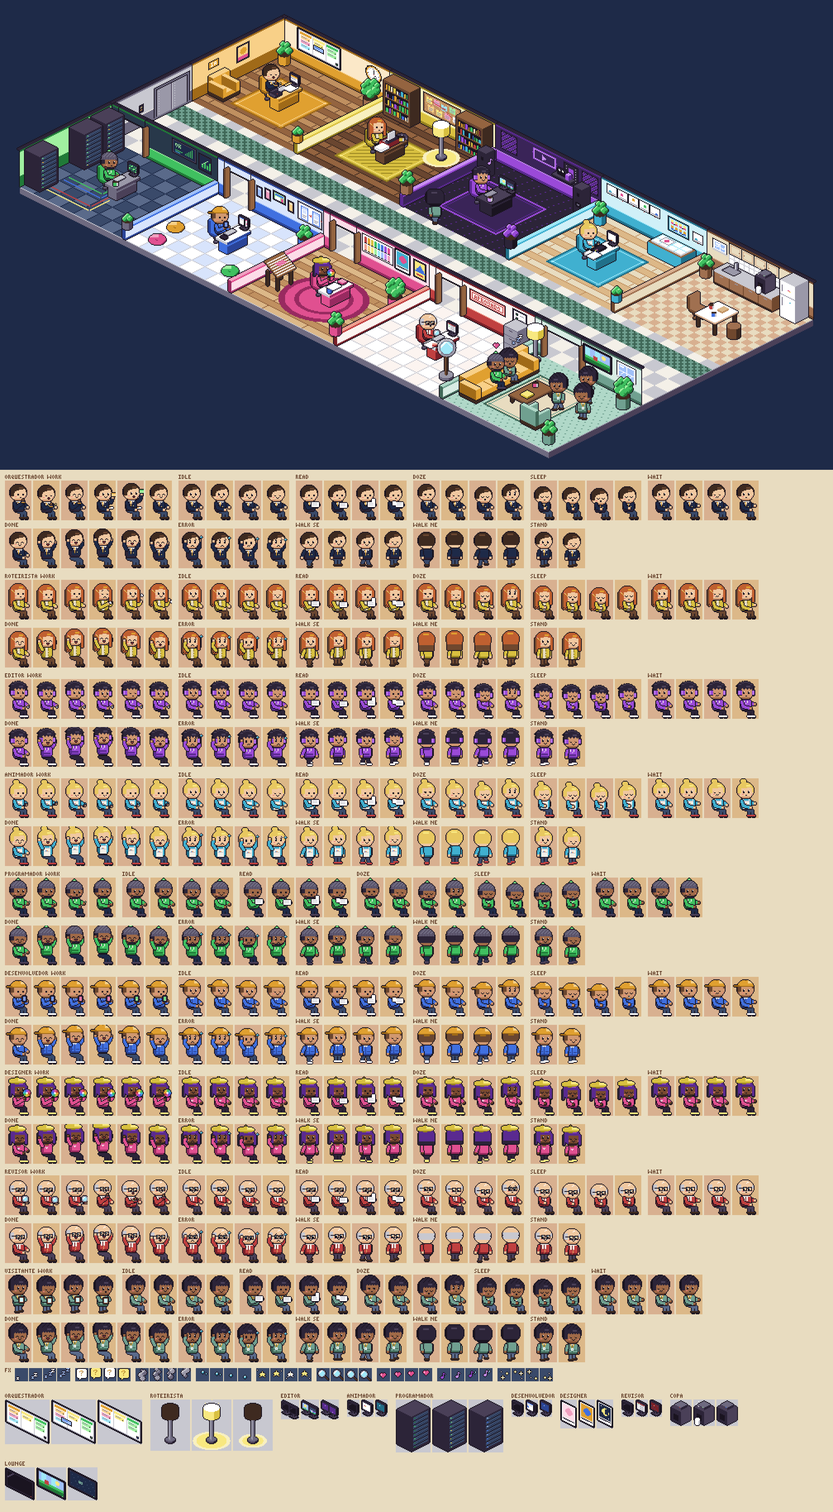
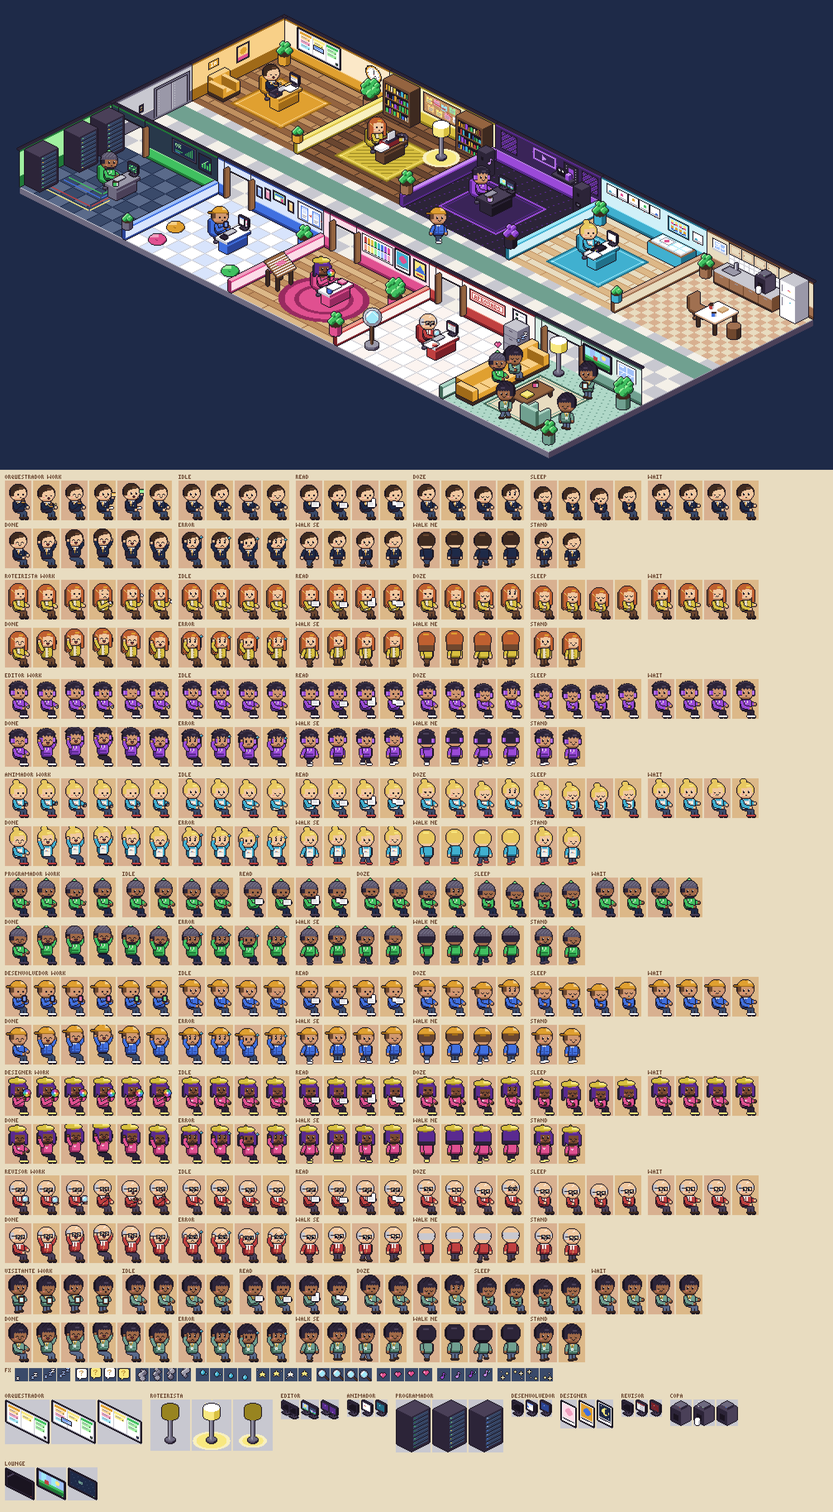
Escritório de IA: arte isométrica v2 completa
Claude-Session: https://claude.ai/code/session_01Whe7f4ccXYv69nz4dyTxmA

diff --git a/escritorio-ia/art/validate.js b/escritorio-ia/art/validate.js
@@ -1,4 +1,5 @@
-// Valida public/assets/ contra o CONTRATO.md (seção 5): manifest, arquivos, tags, quadros/FPS, dimensões e paleta.
+// Valida public/assets/ contra o CONTRATO.md, seção "Versão 2": manifest, arquivos, tags, quadros/FPS,
+// dimensões, paleta, posições dentro do mapa, grafo de caminhos conexo e portas existentes.
 import fs from 'node:fs';
 import path from 'node:path';
 import { fileURLToPath } from 'node:url';
@@ -9,9 +10,9 @@ const ROOT = path.resolve(path.dirname(fileURLToPath(import.meta.url)), '..');
 const DIR = path.join(ROOT, 'public', 'assets');
 const rooms = JSON.parse(fs.readFileSync(path.join(ROOT, 'shared', 'rooms.json'), 'utf8'));
 const errors = [];
-const warn = [];
 const fail = (m) => errors.push(m);
-const check = (cond, m) => { if (!cond) fail(m); return cond; };
+const check = (cond, m) => { if (!cond) fail(m); return !!cond; };
+const isInt = (v) => Number.isInteger(v);
 
 const PAL = new Set(COLORS.map((h) => hexToRgba(h).slice(0, 3).join(',')));
 const imgCache = new Map();
@@ -20,7 +21,6 @@ function img(name) {
   const p = path.join(DIR, name);
   if (!check(fs.existsSync(p), `arquivo ausente: ${name}`)) return null;
   const im = decodePNG(fs.readFileSync(p));
-  // paleta: todo pixel é transparente ou opaco com cor da paleta
   let bad = 0, semi = 0;
   for (let i = 0; i < im.data.length; i += 4) {
     const a = im.data[i + 3];
@@ -39,15 +39,17 @@ function json(name) {
   try { return JSON.parse(fs.readFileSync(p, 'utf8')); } catch (e) { fail(`${name}: JSON inválido (${e.message})`); return null; }
 }
 
-// quadros e FPS pela tabela do PDF
+// quadros [min, max] e FPS (CONTRATO v2)
 const SPEC = {
-  work: [4, 6, 8], base_read: [4, 4, 6], base_idle: [2, 2, 4], base_doze: [4, 4, 4], base_sleep: [4, 4, 3],
-  base_wait: [2, 2, 4], base_done: [4, 4, 8], base_error: [3, 3, 6],
-  base_walk_down: [4, 4, 8], base_walk_up: [4, 4, 8], base_walk_left: [4, 4, 8], base_walk_right: [4, 4, 8],
+  work: [4, 6, 8], base_read: [4, 4, 6], base_idle: [4, 4, 4], base_doze: [4, 4, 4], base_sleep: [4, 4, 3],
+  base_wait: [4, 4, 6], base_done: [6, 6, 10], base_error: [4, 4, 6],
+  base_walk_se: [4, 4, 8], base_walk_ne: [4, 4, 8], base_stand: [2, 2, 2],
 };
 const BASE_TAGS = Object.keys(SPEC).filter((k) => k !== 'work');
+const OBJ_TAGS = ['obj_off', 'obj_work', 'obj_sleep'];
+const FX_TAGS = ['fx_zzz', 'fx_question', 'fx_smoke', 'fx_sweat', 'fx_star', 'fx_magnifier', 'fx_heart', 'fx_music', 'fx_sparkle'];
 
-/** Checa uma sheet Aseprite JSON hash. Retorna mapa tag -> {from,to}. */
+/** Checa uma sheet Aseprite JSON hash. Retorna mapa tag -> {n, durations}. */
 function checkSheet(dataName, imageName, requiredTags, { fw, fh } = {}) {
   const j = json(dataName), im = img(imageName);
   if (!j || !im) return {};
@@ -58,7 +60,7 @@ function checkSheet(dataName, imageName, requiredTags, { fw, fh } = {}) {
   const keys = Object.keys(j.frames);
   for (const k of keys) {
     const f = j.frames[k];
-    check(f.frame && Number.isInteger(f.duration) && f.duration > 0, `${dataName}: quadro ${k} sem frame/duration`);
+    check(f.frame && isInt(f.duration) && f.duration > 0, `${dataName}: quadro ${k} sem frame/duration`);
     const { x, y, w, h } = f.frame;
     check(x >= 0 && y >= 0 && x + w <= im.width && y + h <= im.height, `${dataName}: quadro ${k} fora da imagem`);
     if (fw) check(w === fw && h === fh, `${dataName}: quadro ${k} com ${w}x${h}, esperado ${fw}x${fh}`);
@@ -68,14 +70,26 @@ function checkSheet(dataName, imageName, requiredTags, { fw, fh } = {}) {
     check(t.from >= 0 && t.to < keys.length && t.from <= t.to, `${dataName}: tag ${t.name} com intervalo inválido`);
     check(t.direction === 'forward', `${dataName}: tag ${t.name} direction ${t.direction}`);
     for (let i = t.from; i <= t.to; i++) check(keys[i] === `${t.name}_${i - t.from}`, `${dataName}: quadro ${i} deveria ser ${t.name}_${i - t.from}, é ${keys[i]}`);
-    tags[t.name] = { ...t, n: t.to - t.from + 1, durations: keys.slice(t.from, t.to + 1).map((k) => j.frames[k].duration) };
+    tags[t.name] = { n: t.to - t.from + 1, durations: keys.slice(t.from, t.to + 1).map((k) => j.frames[k].duration) };
+    // quadro não pode ser vazio
+    const f0 = j.frames[keys[t.from]].frame;
+    let any = false;
+    for (let yy = f0.y; yy < f0.y + f0.h && !any; yy++) for (let xx = f0.x; xx < f0.x + f0.w; xx++) if (im.data[(yy * im.width + xx) * 4 + 3]) { any = true; break; }
+    check(any, `${dataName}: tag ${t.name} com quadro vazio`);
   }
   for (const r of requiredTags) check(tags[r], `${dataName}: tag obrigatória ausente: ${r}`);
   return tags;
 }
+const checkTiming = (sheetName, tags, tag, [min, max, fps], anim) => {
+  const t = tags[tag];
+  if (!t) return;
+  check(t.n >= min && t.n <= max, `${sheetName}: ${tag} tem ${t.n} quadros (esperado ${min}..${max})`);
+  check(t.durations.every((d) => d === Math.round(1000 / fps)), `${sheetName}: ${tag} duração != ${Math.round(1000 / fps)} ms (${fps} fps)`);
+  check(anim[tag] && anim[tag].fps === fps && anim[tag].frames === t.n && typeof anim[tag].loop === 'boolean', `manifest.animations.${tag} deveria ser { fps: ${fps}, frames: ${t.n}, loop }`);
+};
 
 // ---------------------------------------------------------------- paleta
-check(COLORS.length >= 32 && COLORS.length <= 48, `paleta com ${COLORS.length} cores (esperado 32..48)`);
+check(COLORS.length >= 32 && COLORS.length <= 64, `paleta com ${COLORS.length} cores (esperado 32..64)`);
 check(new Set(COLORS).size === COLORS.length, 'paleta com cores repetidas');
 for (const r of [...rooms.rooms, ...rooms.common]) check(COLORS.includes(r.accent.toLowerCase()), `destaque ${r.accent} de ${r.id} fora da paleta`);
 const pj = json('palette.json');
@@ -84,72 +98,105 @@ if (pj) check(JSON.stringify(pj.colors) === JSON.stringify(COLORS) && JSON.strin
 // ---------------------------------------------------------------- manifest
 const m = json('manifest.json');
 if (m) {
-  check(m.tile === 16, 'manifest.tile != 16');
-  check(m.char && m.char.w === 16 && m.char.h === 32, 'manifest.char != 16x32');
-  check(m.room && m.room.w === 160 && m.room.h === 112, 'manifest.room != 160x112');
-  check(m.animations && typeof m.animations === 'object', 'manifest.animations ausente');
+  check(m.version === 2 && m.projection === 'iso', 'manifest.version deve ser 2 e projection "iso"');
+  check(m.tile && m.tile.w === 32 && m.tile.h === 16, 'manifest.tile != 32x16');
+  check(m.char && m.char.w === 32 && m.char.h === 48 && m.char.anchor?.x === 16 && m.char.anchor?.y === 46, 'manifest.char != 32x48 com anchor {16,46}');
   const anim = m.animations || {};
-  const agentIds = rooms.rooms.map((r) => r.id);
+  check(Object.keys(anim).length > 0, 'manifest.animations vazio');
+  for (const [k, v] of Object.entries(anim)) check(v && v.fps > 0 && isInt(v.frames) && typeof v.loop === 'boolean', `manifest.animations.${k} sem fps/frames/loop`);
+
+  // mapa
+  const MW = m.map?.w, MH = m.map?.h;
+  check(m.map && m.map.background === 'map_bg.png' && m.map.foreground === 'map_fg.png', 'manifest.map: background/foreground');
+  check(MW >= 900 && MW <= 1100, `mapa com ${MW} px de largura (esperado ~900..1100)`);
+  const bgI = img('map_bg.png'), fgI = img('map_fg.png');
+  if (bgI) check(bgI.width === MW && bgI.height === MH, `map_bg.png ${bgI.width}x${bgI.height} != manifest.map ${MW}x${MH}`);
+  if (fgI) {
+    check(fgI.width === MW && fgI.height === MH, `map_fg.png ${fgI.width}x${fgI.height} != manifest.map ${MW}x${MH}`);
+    let opaque = 0; for (let i = 3; i < fgI.data.length; i += 4) if (fgI.data[i]) opaque++;
+    check(opaque > 0 && opaque < fgI.width * fgI.height * 0.25, `map_fg.png deveria ser transparente na maior parte (${opaque} px opacos)`);
+  }
+  const inMap = (p, mx = 0, my = 0) => p && isInt(p.x) && isInt(p.y) && p.x - mx >= 0 && p.x + mx <= MW && p.y - my >= 0 && p.y <= MH;
+  /** O ponto cai em pixel opaco do fundo (dentro do prédio)? */
+  const onFloor = (p) => bgI && bgI.data[(p.y * bgI.width + p.x) * 4 + 3] === 255;
+  const inPoly = (p, poly) => { let c = false; for (let i = 0, j = poly.length - 1; i < poly.length; j = i++) { const [xi, yi] = poly[i], [xj, yj] = poly[j]; if ((yi > p.y) !== (yj > p.y) && p.x < ((xj - xi) * (p.y - yi)) / (yj - yi) + xi) c = !c; } return c; };
 
   // personagens
+  const agentIds = rooms.rooms.map((r) => r.id);
   const chars = [...agentIds.map((id) => [id, m.characters?.[id]]), ['visitante', m.visitor]];
   for (const [id, entry] of chars) {
     if (!check(entry && entry.image === `char_${id}.png` && entry.data === `char_${id}.json`, `manifest: entrada de personagem ${id} inválida`)) continue;
     const workTag = `${id}_work`;
-    const tags = checkSheet(entry.data, entry.image, [...BASE_TAGS, workTag], { fw: 16, fh: 32 });
-    for (const [tag, [min, max, fps]] of Object.entries({ ...Object.fromEntries(BASE_TAGS.map((t) => [t, SPEC[t]])), [workTag]: SPEC.work })) {
-      const t = tags[tag];
-      if (!t) continue;
-      check(t.n >= min && t.n <= max, `${entry.data}: ${tag} tem ${t.n} quadros (esperado ${min}..${max})`);
-      check(t.durations.every((d) => d === Math.round(1000 / fps)), `${entry.data}: ${tag} duração != ${Math.round(1000 / fps)} ms (${fps} fps)`);
-      check(anim[tag] && anim[tag].fps === fps, `manifest.animations.${tag}.fps deveria ser ${fps}`);
-    }
+    const tags = checkSheet(entry.data, entry.image, [...BASE_TAGS, workTag], { fw: 32, fh: 48 });
+    for (const t of BASE_TAGS) checkTiming(entry.data, tags, t, SPEC[t], anim);
+    checkTiming(entry.data, tags, workTag, SPEC.work, anim);
   }
 
   // salas
+  const nodes = m.paths?.nodes || {};
   const roomIds = [...agentIds, ...rooms.common.map((r) => r.id)];
   for (const id of roomIds) {
     const r = m.rooms?.[id];
     if (!check(r, `manifest.rooms.${id} ausente`)) continue;
-    check(r.background === `room_${id}.png`, `manifest.rooms.${id}.background`);
-    const bg = img(r.background);
-    if (bg) check(bg.width === 160 && bg.height === 112, `${r.background}: ${bg.width}x${bg.height}, esperado 160x112`);
-    if (bg) { let transp = 0; for (let i = 3; i < bg.data.length; i += 4) if (bg.data[i] === 0) transp++; check(transp === 0, `${r.background}: fundo com ${transp} pixels transparentes`); }
-    check(r.seat && Number.isInteger(r.seat.x) && Number.isInteger(r.seat.y), `manifest.rooms.${id}.seat inválido`);
-    check(r.seat.x - 8 >= 0 && r.seat.x + 8 <= 160 && r.seat.y - 32 >= 0 && r.seat.y <= 112, `manifest.rooms.${id}.seat deixa o personagem fora da sala`);
+    check(inMap(r.label), `manifest.rooms.${id}.label fora do mapa`);
+    check(Array.isArray(r.poly) && r.poly.length >= 3 && r.poly.every((q) => Array.isArray(q) && isInt(q[0]) && isInt(q[1]) && inMap({ x: q[0], y: q[1] })), `manifest.rooms.${id}.poly inválido`);
+    const s = r.seat;
+    if (check(s && typeof s.flip === 'boolean' && inMap(s, 16, 46), `manifest.rooms.${id}.seat inválido ou deixa o personagem fora do mapa`)) {
+      check(onFloor(s), `manifest.rooms.${id}.seat não cai no piso`);
+      if (Array.isArray(r.poly)) check(inPoly(s, r.poly), `manifest.rooms.${id}.seat fora do poly da sala`);
+    }
+    check(typeof r.door === 'string' && nodes[r.door], `manifest.rooms.${id}.door (${r.door}) não existe em paths.nodes`);
     const o = r.object;
-    if (check(o && o.image === `obj_${id}.png` && o.data === `obj_${id}.json` && Number.isInteger(o.x) && Number.isInteger(o.y), `manifest.rooms.${id}.object inválido`)) {
-      const tags = checkSheet(o.data, o.image, ['obj_off', 'obj_work', 'obj_sleep']);
-      const objJ = json(o.data);
-      const f0 = objJ && Object.values(objJ.frames)[0].frame;
-      if (f0) {
-        check(o.x >= 0 && o.y >= 0 && o.x + f0.w <= 160 && o.y + f0.h <= 112, `obj_${id} fora da sala`);
-        const cx0 = r.seat.x - 8, cx1 = r.seat.x + 8, cy0 = r.seat.y - 32, cy1 = r.seat.y;
-        const overlap = o.x < cx1 && o.x + f0.w > cx0 && o.y < cy1 && o.y + f0.h > cy0;
-        check(!overlap, `obj_${id} sobrepõe o personagem no seat`);
-        if (r.sofa) { const sx0 = r.sofa.x - 8, sy0 = r.sofa.y - 32; check(!(o.x < sx0 + 16 && o.x + f0.w > sx0 && o.y < r.sofa.y && o.y + f0.h > sy0), `obj_${id} sobrepõe o sofá`); }
-      }
-      for (const t of ['obj_off', 'obj_work', 'obj_sleep']) if (tags[t]) check(anim[t] && tags[t].durations.every((d) => d === Math.round(1000 / anim[t].fps)), `obj_${id}: ${t} duração não bate com manifest.animations`);
+    if (check(o && o.image === `obj_${id}.png` && o.data === `obj_${id}.json` && [o.x, o.y, o.w, o.h].every(isInt), `manifest.rooms.${id}.object inválido`)) {
+      const tags = checkSheet(o.data, o.image, OBJ_TAGS, { fw: o.w, fh: o.h });
+      check(o.x >= 0 && o.y >= 0 && o.x + o.w <= MW && o.y + o.h <= MH, `obj_${id} fora do mapa`);
+      for (const t of OBJ_TAGS) if (tags[t]) check(anim[t] && tags[t].n === anim[t].frames && tags[t].durations.every((d) => d === Math.round(1000 / anim[t].fps)), `obj_${id}: ${t} não bate com manifest.animations`);
+      // objeto não cobre o personagem sentado
+      if (s) { const cx0 = s.x - 10, cx1 = s.x + 10, cy0 = s.y - 44, cy1 = s.y - 4; check(!(o.x < cx1 && o.x + o.w > cx0 && o.y < cy1 && o.y + o.h > cy0), `obj_${id} sobrepõe o personagem sentado`); }
     }
   }
-  check(m.rooms?.lounge?.sofa && Number.isInteger(m.rooms.lounge.sofa.x) && Number.isInteger(m.rooms.lounge.sofa.y), 'manifest.rooms.lounge.sofa ausente');
+
+  // lounge
+  const lg = m.lounge;
+  if (check(lg && Array.isArray(lg.sofa) && lg.sofa.length >= 4, 'manifest.lounge.sofa precisa de pelo menos 4 vagas')) {
+    lg.sofa.forEach((p, k) => check(inMap(p, 16, 46) && typeof p.flip === 'boolean' && onFloor(p) && inPoly(p, m.rooms.lounge.poly), `lounge.sofa[${k}] inválido/fora do lounge`));
+  }
+  if (check(lg && Array.isArray(lg.visitors) && lg.visitors.length >= 3, 'manifest.lounge.visitors precisa de pelo menos 3 lugares')) {
+    lg.visitors.forEach((p, k) => check(inMap(p, 16, 46) && typeof p.flip === 'boolean' && onFloor(p) && inPoly(p, m.rooms.lounge.poly), `lounge.visitors[${k}] inválido/fora do lounge`));
+  }
+
+  // grafo de caminhos: nós dentro do mapa, arestas válidas, conexo, toda door presente
+  const names = Object.keys(nodes);
+  check(names.length > 0, 'paths.nodes vazio');
+  for (const n of names) check(inMap(nodes[n]) && onFloor(nodes[n]), `paths.nodes.${n} fora do mapa/piso`);
+  const adj = new Map(names.map((n) => [n, []]));
+  for (const e of m.paths?.edges || []) {
+    if (!check(Array.isArray(e) && e.length === 2 && nodes[e[0]] && nodes[e[1]] && e[0] !== e[1], `aresta inválida: ${JSON.stringify(e)}`)) continue;
+    adj.get(e[0]).push(e[1]); adj.get(e[1]).push(e[0]);
+  }
+  if (names.length) {
+    const seen = new Set([names[0]]), stack = [names[0]];
+    while (stack.length) for (const nb of adj.get(stack.pop())) if (!seen.has(nb)) { seen.add(nb); stack.push(nb); }
+    check(seen.size === names.length, `grafo desconexo: alcança ${seen.size} de ${names.length} nós (${names.filter((n) => !seen.has(n)).join(', ')})`);
+  }
 
   // fx
   if (check(m.fx && m.fx.image === 'fx.png' && m.fx.data === 'fx.json', 'manifest.fx inválido')) {
-    const tags = checkSheet('fx.json', 'fx.png', ['fx_zzz', 'fx_question', 'fx_smoke', 'fx_sweat', 'fx_star', 'fx_magnifier']);
-    if (tags.fx_question) check(tags.fx_question.n === 2, 'fx_question deve ter 2 quadros (piscar)');
+    const tags = checkSheet('fx.json', 'fx.png', FX_TAGS);
+    for (const t of FX_TAGS) if (tags[t]) check(anim[t] && anim[t].frames === tags[t].n && tags[t].durations.every((d) => d === Math.round(1000 / anim[t].fps)), `fx: ${t} não bate com manifest.animations`);
+    check(m.fx.anchors && m.fx.anchors.head && isInt(m.fx.anchors.head.x) && isInt(m.fx.anchors.head.y), 'manifest.fx.anchors.head ausente');
   }
-
-  // toda tag referenciada existe em animations
-  for (const [k, v] of Object.entries(anim)) check(v && v.fps > 0 && typeof v.loop === 'boolean', `manifest.animations.${k} sem fps/loop`);
 }
 
-// todos os PNGs da pasta passam na paleta (inclui preview)
-for (const f of fs.readdirSync(DIR)) if (f.endsWith('.png')) img(f);
+// nenhum arquivo v1 sobrando; todos os PNGs passam na paleta (inclui preview)
+for (const f of fs.readdirSync(DIR)) {
+  check(!/^room_/.test(f), `arquivo v1 órfão: ${f}`);
+  if (f.endsWith('.png')) img(f);
+}
 
 if (errors.length) {
   console.error(`validate: ${errors.length} erro(s)`);
   for (const e of errors) console.error('  - ' + e);
   process.exit(1);
 }
-console.log(`validate: OK — ${fs.readdirSync(DIR).length} arquivos, ${COLORS.length} cores, manifest e sheets conforme o contrato${warn.length ? ` (${warn.length} avisos)` : ''}`);
+console.log(`validate: OK — ${fs.readdirSync(DIR).length} arquivos, ${COLORS.length} cores, manifest v2 e sheets conforme o contrato`);

diff --git a/escritorio-ia/art/rooms.js b/escritorio-ia/art/rooms.js
@@ -10,10 +10,10 @@ export const DOOR = [8, 40];
 export const SEATS = {
   orquestrador: { i: 44, j: 60 }, roteirista: { i: 44, j: 60 }, 'editor-video': { i: 40, j: 58 }, animador: { i: 44, j: 60 },
   programador: { i: 54, j: 58 }, desenvolvedor: { i: 58, j: 56 }, designer: { i: 56, j: 58 }, revisor: { i: 56, j: 58 },
-  copa: { i: 56, j: 66 }, lounge: { i: 16, j: 36 },
+  copa: { i: 56, j: 66 }, lounge: { i: 20, j: 26 },
 };
 export const DESK = { di: 14, dj: 28, h: 16, off: 9 }; // mesa: começa `off` à frente da cadeira
-export const SOFA = { i: 6, j: 22, len: 76 }; // sofá do lounge (olha para +i)
+export const SOFA = { i: 6, j: 10, len: 92 }; // sofá do lounge (olha para +i)
 
 // ---------------------------------------------------------------- pisos
 const planks = (a, b, seam, w = 8) => (u, v) => {
@@ -293,7 +293,7 @@ ROOM_DRAW.revisor = {
       desk: { top: 'snow', edge: 'light', side: 'red', sideDark: 'redDark' }, chair: chairOf(r.ac),
       items: (L, iso, i, j, z) => { keyboard(L, iso, i, j, z); Fu.papers(L, iso, i + 3, j + 21, z, 2); iso.cylinder(L, i + 10, j + 25, 2, z, z + 2, { side: 'red', sideDark: 'redDark', top: 'redLight' }); },
     });
-    r.put((L, iso, I, J) => Fu.giantMagnifier(L, iso, I + 104, J + 84), { fg: true });
+    r.put((L, iso, I, J) => Fu.giantMagnifier(L, iso, I + 22, J + 92), { fg: true });
   },
 };
 
@@ -310,7 +310,7 @@ ROOM_DRAW.lounge = {
   },
   furniture(r) {
     const col = { c: 'teal', cD: 'tealDark', cL: 'tealLight' };
-    r.put((L, iso, I, J) => Fu.floorLamp(L, iso, I + 10, J + 10));
+    r.put((L, iso, I, J) => Fu.floorLamp(L, iso, I + 40, J + 12));
     r.put((L, iso, I, J) => Fu.sofaI(L, iso, I + SOFA.i, J + SOFA.j, SOFA.len, { c: 'orange', cD: 'orangeDark', cL: 'orangeLight' }, 'body'));
     r.put((L, iso, I, J) => Fu.sofaI(L, iso, I + SOFA.i, J + SOFA.j, SOFA.len, { c: 'orange', cD: 'orangeDark', cL: 'orangeLight' }, 'arm'), { fg: true });
     r.put((L, iso, I, J) => Fu.table(L, iso, I + 44, J + 42, 20, 34, 9, { top: 'woodLight', edge: 'wood' }));
@@ -318,7 +318,7 @@ ROOM_DRAW.lounge = {
     r.put((L, iso, I, J) => Fu.armchairBack(L, iso, I + 76, J + 76, col));
     r.put((L, iso, I, J) => Fu.plant(L, iso, I + 118, J + 12, { size: 3, pot: 'teal', potDark: 'tealDark' }));
     r.put((L, iso, I, J) => Fu.plant(L, iso, I + 116, J + 100, { size: 2, pot: 'teal', potDark: 'tealDark' }), { fg: true });
-    r.meta.seat = { i: SOFA.i + 14, j: SOFA.j + 14 };
+    r.meta.seat = { i: SOFA.i + 14, j: SOFA.j + 16 };
   },
 };
 

diff --git a/escritorio-ia/art/map.js b/escritorio-ia/art/map.js
@@ -3,8 +3,8 @@
 //
 // Planta (tiles de 16 unidades; i → sudeste, j → sudoeste):
 //   fileira de trás  j ∈ [0, 7)   : orquestrador | roteirista | editor-video | animador | copa
-//   corredor         j ∈ [7, 12)  : elevador na ponta esquerda, passadeira no meio
-//   fileira da frente j ∈ [12, 19): programador | desenvolvedor | designer | revisor | lounge
+//   corredor         j ∈ [7, 13)  : elevador na ponta esquerda, passadeira no meio
+//   fileira da frente j ∈ [13, 20): programador | desenvolvedor | designer | revisor | lounge
 //   cada sala tem 8 tiles em i (128 unidades) e 7 em j (112 unidades).
 // Paredes altas só no fundo de cada fileira (com decoração); divisórias baixas entre salas vizinhas,
 // para que nenhuma parede esconda o piso de outra sala. Frente aberta.
@@ -121,8 +121,8 @@ function corridorFloor(bg) {
     const rj = wj - CORR_J0;
     if (rj >= 10 && rj < 32) {
       if (rj === 10 || rj === 31) return 'tealDark';
-      if (rj === 12 || rj === 29) return 'tan';
-      return (Math.floor(wi / 4) + Math.floor(rj / 4)) % 2 ? 'teal' : 'tealDark';
+      if (rj === 12 || rj === 29) return 'tealLight';
+      return wi % 32 === 0 ? 'tealDark' : 'teal';
     }
     const edge = (wi % 16 === 0) || ((wj - CORR_J0) % 16 === 0);
     if (edge) return 'silver';
@@ -235,8 +235,8 @@ export function layoutData() {
   for (let k = 1; k < spine.length; k++) edges.push([spine[k - 1][1], spine[k][1]]);
 
   const L0 = roomOrigin('lounge');
-  const sofa = [0, 1, 2, 3].map((k) => ({ ...P(L0.I0 + SOFA.i + 14, L0.J0 + SOFA.j + 14 + k * 16), flip: false }));
-  const visitors = [[94, 30], [110, 52], [84, 56]].map(([i, j]) => ({ ...P(L0.I0 + i, L0.J0 + j), flip: true }));
+  const sofa = [0, 1, 2, 3].map((k) => ({ ...P(L0.I0 + SOFA.i + 14, L0.J0 + SOFA.j + 16 + k * 20), flip: false }));
+  const visitors = [[88, 24], [112, 74], [62, 98]].map(([i, j]) => ({ ...P(L0.I0 + i, L0.J0 + j), flip: true }));
   rooms.lounge.seat = { ...sofa[0] };
   return { rooms, lounge: { sofa, visitors }, paths: { nodes, edges } };
 }

diff --git a/escritorio-ia/art/generate.js b/escritorio-ia/art/generate.js
@@ -32,7 +32,7 @@ const addAnims = (list) => {
   for (const a of list) {
     const prev = animations[a.tag];
     if (prev && (prev.fps !== a.fps || prev.frames !== a.frames.length)) throw new Error(`tag ${a.tag} com fps/quadros diferentes entre sheets`);
-    animations[a.tag] = { fps: a.fps, loop: !/_done$|_error$/.test(a.tag) || true, frames: a.frames.length };
+    animations[a.tag] = { fps: a.fps, loop: true, frames: a.frames.length };
   }
 };
 
@@ -135,7 +135,7 @@ function putChar(c, f, p, flip = false) { c.blit(f, p.x - ANCHOR.x, p.y - ANCHOR
   lg.visitors.forEach((v, k) => sprites.push({ y: v.y, draw: (c) => putChar(c, frameOf('visitante', k === 0 ? 'visitante_work' : k === 1 ? 'base_stand' : 'base_walk_se', k), v, v.flip) }));
   // alguém andando no corredor
   const n = layout.paths.nodes;
-  sprites.push({ y: n.c_296.y, draw: (c) => putChar(c, frameOf('visitante', 'base_walk_ne', 0), { x: n.c_296.x + 20, y: n.c_296.y - 10 }) });
+  sprites.push({ y: n.c_296.y, draw: (c) => putChar(c, frameOf('desenvolvedor', 'base_walk_se', 0), { x: n.c_296.x + 24, y: n.c_296.y + 12 }) });
   sprites.sort((a, b) => a.y - b.y).forEach((s) => s.draw(scene));
   scene.blit(fg, 0, 0);
   // fx de exemplo

diff --git a/escritorio-ia/art/objects.js b/escritorio-ia/art/objects.js
@@ -105,7 +105,7 @@ export const OBJECTS = {
       iso.disc(L, ci, cj, r, r, 0, (u, v, wi, wj) => (Math.hypot(wi - ci, wj - cj) > r - 3 ? 'yellowPale' : 'lamp'));
       L.stamp(L._out, { outline: false });
     }
-    Fu.floorLamp(L, iso, ci, cj, { shade: on ? 'lamp' : 'yellowDark', shadeDark: on ? 'yellow' : 'woodDark', on });
+    Fu.floorLamp(L, iso, ci, cj, { shade: on ? 'lamp' : 'yellow', shadeDark: on ? 'yellow' : 'yellowDark', on });
     if (tag === 'obj_work') { const p = iso.pt(ci, cj, 44); if (f % 2) { L._sp = [[p.x - 8, p.y - 2], [p.x + 8, p.y - 2], [p.x, p.y - 6]]; } }
   },
   'editor-video': (I0, J0) => {
@@ -141,7 +141,7 @@ export const OBJECTS = {
       if (tag === 'obj_sleep') return h % 3 === 0 && f % 2 ? 'blueLight' : 'blue';
       return (row + f) % 3 === 0 ? 'green' : 'greenDark';
     };
-    Fu.rackI(L, iso, I0, J0 + 30, 22, 42, leds);
+    Fu.rackI(L, iso, I0, J0 + 36, 22, 42, leds);
   },
   desenvolvedor: (I0, J0) => {
     const d = deskOf('desenvolvedor', I0, J0);

diff --git a/escritorio-ia/art/fx.js b/escritorio-ia/art/fx.js
@@ -38,9 +38,9 @@ export const FX = {
     });
   }) },
   fx_sweat: { fps: 6, frames: make(4, (L, i) => {
-    const y = 3 + i * 2;
-    L.px(8, y, 'cyanLight'); L.px(7, y + 1, 'cyanLight'); L.px(8, y + 1, 'snow'); L.px(9, y + 1, 'cyan');
-    L.px(7, y + 2, 'cyan'); L.px(8, y + 2, 'cyan'); L.px(9, y + 2, 'cyanDark'); L.px(8, y + 3, 'cyanDark');
+    const y = 2 + i * 2;
+    shape(L, ['..#..', '.###.', '#####', '#####', '#####', '.###.'], 6, y, { '#': 'cyan' });
+    L.px(8, y, 'cyanLight'); L.px(7, y + 2, 'snow'); L.px(7, y + 3, 'cyanLight'); L.px(10, y + 4, 'cyanDark'); L.px(9, y + 5, 'cyanDark');
     if (i < 2) { L.px(12, 6 + i, 'cyanLight'); L.px(12, 7 + i, 'cyan'); }
   }) },
   fx_star: { fps: 8, frames: make(4, (L, i) => {

diff --git a/escritorio-ia/.claude/skills/paleta-escritorio/SKILL.md b/escritorio-ia/.claude/skills/paleta-escritorio/SKILL.md
@@ -1,6 +1,6 @@
 ---
 name: paleta-escritorio
-description: Use sempre que for escolher cores para pixel art, animação ou peça visual do próprio Escritório de IA - regras da paleta fechada (32 a 48 cores), onde ela mora (art/palette.js, public/assets/palette.json, shared/rooms.json), cor de destaque de cada sala, como importar no Aseprite (.gpl) e como conferir se uma imagem usa só cores da paleta.
+description: Use sempre que for escolher cores para pixel art, animação ou peça visual do próprio Escritório de IA - regras da paleta fechada (até 64 cores, versão isométrica), onde ela mora (art/palette.js, public/assets/palette.json, shared/rooms.json), cor de destaque de cada sala, como importar no Aseprite (.gpl) e como conferir se uma imagem usa só cores da paleta.
 ---
 
 # Paleta do escritório
@@ -30,7 +30,7 @@ comm -23 usadas.txt paleta.txt   # vazio = ok
 ```
 
 ## Regras
-- **Paleta fechada de 32 a 48 cores.** Precisa de cor nova? Peça à frente Pixel art para entrar
+- **Paleta fechada de até 64 cores** (v1 usava 32 a 48). Precisa de cor nova? Peça à frente Pixel art para entrar
   em `art/palette.js`; nunca use cor "solta" num sprite.
 - Rampas de 3–4 tons por material (sombra, base, luz, brilho); sombra puxa para azul/roxo,
   luz puxa para amarelo — nada de preto puro para sombra.
